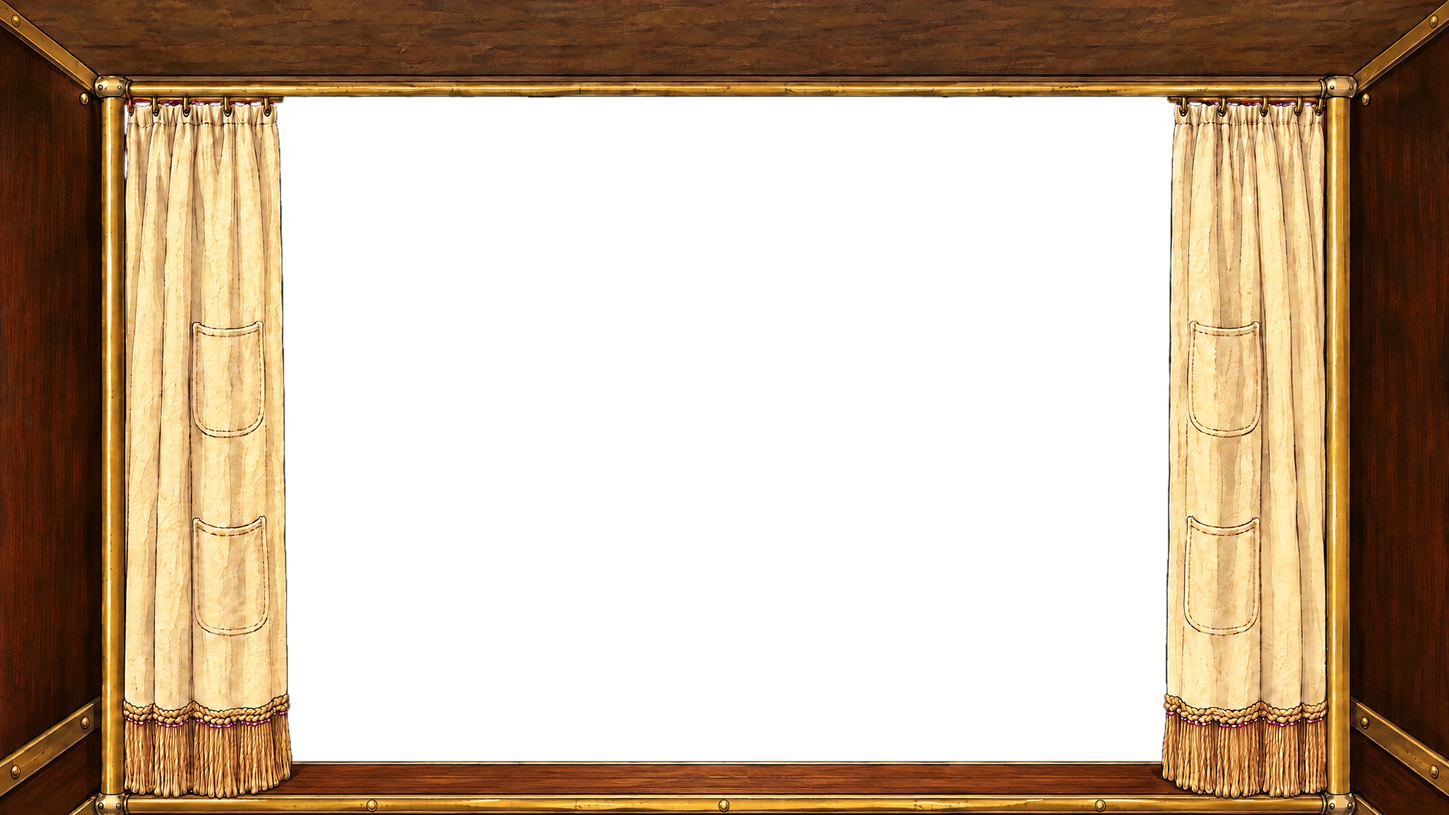
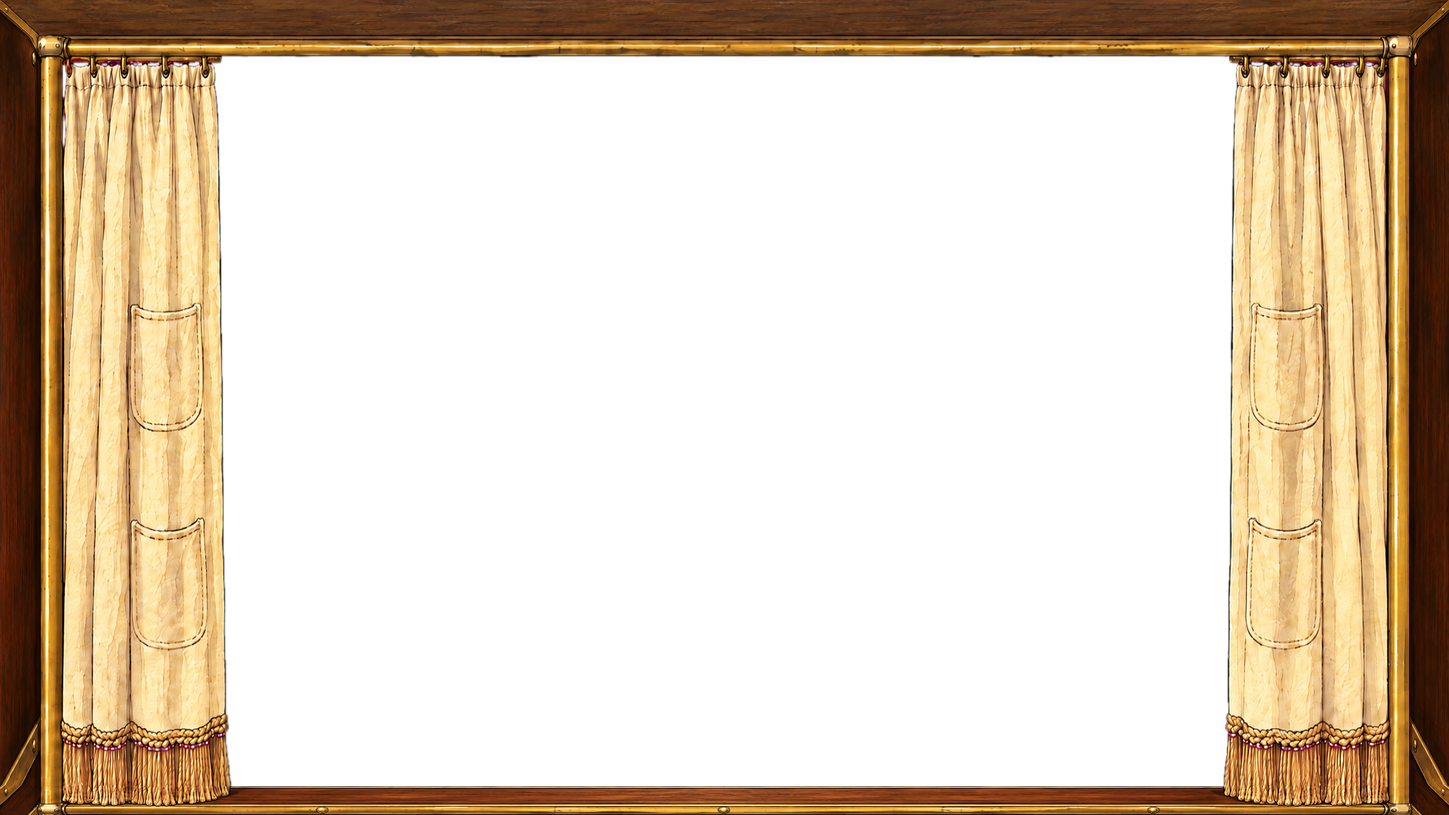
Пакет 6, ред. 9: рама тележки тоньше, кадры 7 и 13 с рукой изнутри, двери 316/318
Ответы автора 12.10.2026: рама тоньше (tools/assets/remap_frame.py, новый);
тёмная юбка — да; номера дверей 316/318; кадр в кабине светлый. Кадры
fr_a1_under_room и fr_a3_ride_under переделаны: рука изнутри тележки, рамка
тележки в самом кадре (в слотах SEQ.drive.1_under и SEQ.ride оверлея нет).
Спека §2.7, §4, README, статус, листы.

Claude-Session: https://claude.ai/code/session_01Dks16BWKXJ1H75RWreeaNq

diff --git a/tools/assets/remap_frame.py b/tools/assets/remap_frame.py
@@ -1,0 +1,52 @@
+#!/usr/bin/env python3
+"""Кусочно-линейно сжать или растянуть части кадра по горизонтали и вертикали — например, сделать
+тоньше раму тележки в оверлее юбки (решение автора 12.10.2026: «тоньше»), не перерисовывая его.
+
+  python tools/assets/remap_frame.py ВХОД.png ВЫХОД.png --x 0:0,135:60,377:302,1543:1618,1785:1860,1920:1920 \
+      [--y 0:0,95:45,991:1031,1080:1080]
+
+Опорные точки «откуда:куда» в пикселях кадра 1920×1080, по возрастанию; между ними — линейно.
+Части, у которых длина отрезка не меняется (стойки, полотнища), только сдвигаются. Альфа (если есть)
+переносится вместе с цветом. Выборка — билинейная.
+"""
+import argparse
+
+import numpy as np
+from PIL import Image
+
+
+def parse(spec, n):
+    if not spec:
+        return np.array([0, n]), np.array([0, n])
+    pts = [tuple(map(float, p.split(":"))) for p in spec.split(",")]
+    src, dst = np.array([p[0] for p in pts]), np.array([p[1] for p in pts])
+    return src, dst
+
+
+def main(argv=None):
+    ap = argparse.ArgumentParser()
+    ap.add_argument("src")
+    ap.add_argument("out")
+    ap.add_argument("--x", default="")
+    ap.add_argument("--y", default="")
+    a = ap.parse_args(argv)
+    im = Image.open(a.src)
+    mode = "RGBA" if "A" in im.getbands() else "RGB"
+    arr = np.asarray(im.convert(mode)).astype(float)
+    h, w = arr.shape[:2]
+    xs, xd = parse(a.x, w)
+    ys, yd = parse(a.y, h)
+    # обратное отображение: для каждого пикселя выхода — откуда брать
+    sx = np.interp(np.arange(w) + 0.5, xd, xs) - 0.5
+    sy = np.interp(np.arange(h) + 0.5, yd, ys) - 0.5
+    x0 = np.clip(np.floor(sx).astype(int), 0, w - 1); x1 = np.clip(x0 + 1, 0, w - 1); fx = np.clip(sx - x0, 0, 1)
+    y0 = np.clip(np.floor(sy).astype(int), 0, h - 1); y1 = np.clip(y0 + 1, 0, h - 1); fy = np.clip(sy - y0, 0, 1)
+    top = arr[y0][:, x0] * (1 - fx)[None, :, None] + arr[y0][:, x1] * fx[None, :, None]
+    bot = arr[y1][:, x0] * (1 - fx)[None, :, None] + arr[y1][:, x1] * fx[None, :, None]
+    out = top * (1 - fy)[:, None, None] + bot * fy[:, None, None]
+    Image.fromarray(np.clip(out + 0.5, 0, 255).astype("uint8"), mode).save(a.out)
+    print(f"{a.out}: x {a.x or '—'}; y {a.y or '—'}")
+
+
+if __name__ == "__main__":
+    main()

diff --git a/work/higgsfield/candidates/pack6_1012/README.md b/work/higgsfield/candidates/pack6_1012/README.md
@@ -6,7 +6,7 @@
 
 ## Решения автора 12.10.2026 (вторая половина дня)
 
-1. **Юбка — тележка изнутри, передняя шторка прямо перед глазами.** Замечания автора по очереди: «отодвигается вбок как шторка, а не поднимается вверх»; «с внешней стороны, разъезжается влево и вправо, как занавески перед окном»; «открытые шторы ПЕРЕД глазами, а не по бокам» (картинка `work/higgsfield/ref_author_curtains_1012.jpg`); «образец — только расположение штор, тележку оставить»; «опять шторы по бокам, а не впереди». Генератор по описанию упорно ставил шторы к краям кадра, и они читались как боковые стенки (ред. 3, 5) или терялась тележка (ред. 4). Ред. 6 сделана иначе: сначала я собрал точную схему (`work/higgsfield/layout/skirt_front_mock_1012.png`) — столешница и боковые шторы в перспективе, передние стойки, штанга, на ней в передней плоскости раздвинутые полотнища, — и генератор только перерисовал её начисто. Ред. 7 (замечание автора «по бокам должны быть голые стенки тележки»): боковые шторы ред. 6 заменены голыми стенками — тёмное дерево с латунной окантовкой; передняя шторка, столешница и стойки без изменений. Ред. 8 (замечание автора «тележка получилась как бы без пола»): добавлено днище — доски с латунной окантовкой внизу кадра (≈ 8 % высоты), дальний край — латунная перекладина между низами передних стоек. Ред. 1–7 сняты. Спека §2.7 поправлена.
+1. **Юбка — тележка изнутри, передняя шторка прямо перед глазами.** Замечания автора по очереди: «отодвигается вбок как шторка, а не поднимается вверх»; «с внешней стороны, разъезжается влево и вправо, как занавески перед окном»; «открытые шторы ПЕРЕД глазами, а не по бокам» (картинка `work/higgsfield/ref_author_curtains_1012.jpg`); «образец — только расположение штор, тележку оставить»; «опять шторы по бокам, а не впереди». Генератор по описанию упорно ставил шторы к краям кадра, и они читались как боковые стенки (ред. 3, 5) или терялась тележка (ред. 4). Ред. 6 сделана иначе: сначала я собрал точную схему (`work/higgsfield/layout/skirt_front_mock_1012.png`) — столешница и боковые шторы в перспективе, передние стойки, штанга, на ней в передней плоскости раздвинутые полотнища, — и генератор только перерисовал её начисто. Ред. 7 (замечание автора «по бокам должны быть голые стенки тележки»): боковые шторы ред. 6 заменены голыми стенками — тёмное дерево с латунной окантовкой; передняя шторка, столешница и стойки без изменений. Ред. 8 (замечание автора «тележка получилась как бы без пола»): добавлено днище — доски с латунной окантовкой внизу кадра (≈ 8 % высоты), дальний край — латунная перекладина между низами передних стоек. Ред. 9 — ответы автора: рама тоньше (`tools/assets/remap_frame.py`: боковые стенки 137→55 px, низ столешницы 106→50, днище 89→45; стойки и шторы только сдвинуты, у края теперь закрыто ≈ 15 % ширины, сверху ≈ 5 %, снизу ≈ 4 %). Ред. 1–8 сняты. Спека §2.7 поправлена.
 2. **Толпа полураздета на всех картинках, включая принятые.** «Смешнее, если люди по возможности раздеты; особенно смешно, если у некоторых мужчин полотенце по-женски завёрнуто на голове». Полотенца и халаты по объявлению банного дня изъяты, поэтому по ответу автора гости в своём: майки, подтяжки, семейные трусы, кальсоны, носки на подвязках, комбинации, ночнушки, бигуди, а мужчины наматывают на голову по-женски свою рубашку или кофту. Спека §1.4 поправлена.
 3. **Реплика `SEQ.peek.3`:** «Человек сорок. И все, как назло, не вполне голые» — слово автора; внесено в `texts/rewrite/ACT1_TEXTS_EDITS.md`, `ACT1_TEXTS_FINAL.md` пересобран, `check_texts.py` — без ошибок.
 
@@ -26,18 +26,18 @@
 | Файл | Кадр | Что | Проба |
 |---|---|---|---|
 | `fr_a1_voucher.png` | `OPEN.1_voucher` | сухие руки в рукавах тёмно-синего пиджака держат путёвку с гильоширной рамкой, строчки в размытие; позади номер 317, душевая с уточкой. Гэг: морская звезда вместо скрепки | 7c2820ff |
-| `fr_a1_corridor.png` | `SEQ.peek.1_corridor` | из двери номера: пустой коридор, ковровая дорожка, в конце латунные двери служебного лифта; мыльная рука на косяке. Гэги: ботинки с ракушкой, поднос с пустой подставкой для яйца | 325befca |
+| `fr_a1_corridor.png` | `SEQ.peek.1_corridor` | из двери номера: пустой коридор, ковровая дорожка, в конце латунные двери служебного лифта; мыльная рука на косяке. Гэги: ботинки с ракушкой, поднос с пустой подставкой для яйца (номера дверей переписаны на 316 и 318 — ответ автора) | 325befca |
 | `fr_a1_lift_panel.png` | `SEQ.peek.2_lift` | «5», «4», «3», «2», «Вестибюль»; на месте снятых кнопок — заглушки на винтах; мыльный палец у «Вестибюля». Гэг: морская звезда-наклейка | abbe3af7 |
 | `fr_a1_lobby_peek.png` | `SEQ.peek.3_lobby` | щель дверей лифта: у стойки полураздетая толпа (майки, подтяжки, трусы в полоску, носки на подвязках, комбинации, бигуди, у мужчин свитер тюрбаном; маска на лице, зубная щётка, пена для бритья), Изольда одета, смотрит мимо, прижимает папкой мокрый круг с лучами; «Банный день», сухой каскад | 4760d6bf; бейдж переписан |
 | `fr_a1_lobby_waiter.png` | `SEQ.peek.4_waiter` | тот же вид: официант с тележкой сквозь толпу, гости расступаются, не глядя; Изольда поднимает откидную секцию стойки, глаз не поднимает | 56d37be6 (от 4760d6bf); бейдж переписан |
 | `fr_a1_lift_close.png` | `SEQ.peek.5_back` | створки почти сошлись, в щели — полоска вестибюля и гость в майке со свитером на голове | 03cbccdf |
-| `fr_a1_under_room.png` | `SEQ.drive.1_under` | из-под юбки в номере: мыльная рука на нижнем латунном поручне, ковёр, закрытая дверь с листком. Гэги: носок и пуговица под кроватью | df050f8c |
+| `fr_a1_under_room.png` | `SEQ.drive.1_under` | рамка тележки уже в кадре (оверлея в слоте нет): мыльная рука изнутри тележки держит латунную кромку днища, впереди ковёр, кровать, закрытая дверь. Прежняя рука снаружи тележки — «нелепо» (автор) | основа 8d3feead (df050f8c без руки) + `ov_skirt` + рука 9b3c4d9d, вклеена `cutout.py` |
 | `fr_a1_under_liftdoors.png` | `SEQ.drive.2_lift` | из кабины: латунный порог, «мрамор», ноги в носках на подвязках, комбинации, тапки, босые ступни. Гэг: потерянный синий тапок | 771187f1 |
 | `fr_a1_under_lobby.png` | `SEQ.drive.3_lobby` | посреди вестибюля: ноги в пижамных шортах и носках на подвязках идут мимо, к тележке никто не повёрнут; вдали сухой каскад. Гэги: детская сандалия, волочится пояс | ae4c4205 (первая проба генератор не нарисовал — отказ по содержанию; формулировка смягчена) |
 | `fr_a1_under_service.png` | `END.act1`, `SEQ.shout.5` | за стойкой: полки с бланками, штемпелями, термосом; туфли Изольды в профиль (она одета), слева закрытая калитка, под ней — ноги толпы в носках на подвязках и тапках | 9e657d2f |
 | `fr_a2_under_exhibit.png` | `SEQ.exhibit.go` | у экспоната: витрина со счётчиком; у таблички — те же двое, что в Z05: она в комбинации и коричневых туфлях, он в трусах в полоску, носках на подвязках и тапках | f107a176 |
 | `fr_a3_lobby_hush.png` | `SEQ.report` | вестибюль затих: все ступни в профиль повёрнуты к громкоговорителю на колонне справа; брошенный тапок носком в другую сторону, опрокинутая чашка | 505a3247 |
-| `fr_a3_ride_under.png` | `SEQ.ride` | из-под юбки в кабине 1908 года: мыльная рука задёргивает латунную решётку, за прутьями горит лампа поста; крошки круассана | 42a6214f |
+| `fr_a3_ride_under.png` | `SEQ.ride` | рамка тележки уже в кадре: мыльная рука изнутри тележки тянется между передними шторами и задёргивает латунную решётку, за прутьями лампа поста; запасная `__alt2` — рука левее | основа 95867749 (42a6214f без руки) + `ov_skirt` + рука 3131ce04 (запас 56a1e186), вклеена `cutout.py` |
 | `fr_a3_dark.png` | `SEQ.descent` | почти черно (8 %): столешница, голые боковые стенки, стойки — силуэтами, передняя шторка задёрнута перед глазами, кармашки; под подолом полоска тёплого света; оверлея нет (§4.2) | a09a6f46 (с днищем), затемнён `grade_dark.py --k 0.45` |
 | `fr_epi_laundry.png` | `EPI.*` | прачечная, вода есть: барабаны крутятся, люк ближней машины открыт и парит, на машине сложены пиджак, рубашка, галстук | bdaff360 |
 | `fr_epi_minibar.png` | `EPI.0–2` | как Z02: на ручке новое меню (чистая карточка), кефир вместо комбучи. Гэг: моль на крышке кефира | c8bc17fb |
@@ -58,16 +58,16 @@
 
 Прежние версии после «да» уходят в `work/orig_gfx/` (`…__одетые_до_12.10`).
 
-## Вопросы автору
+## Ответы автора 12.10.2026
 
-1. **Юбка на тёмных кадрах.** Светлая шторка на тёмном кадре прибытия выбивается. Предлагаю второй файл `ov_skirt_dark.png` (на листе юбки) для `SEQ.descent` … `SEQ.wait` Акта IV; другой путь — затемнять юбку в движке.
-2. **Номера и кнопки.** На дверях коридора номера 306/307 (у героя 317), этажи лифта «5…2, Вестибюль» придуманы — сделано по решению 08.10 «текст рисует генератор» (спека §4.1 ещё просит чистые таблички). Если надо — впишу 316/318.
-3. **Кадр в кабине `fr_a3_ride_under`** (ещё наверху) оставлен светлым.
-5. **Нижний поручень в кадре номера.** На `fr_a1_under_room` мыльная рука держит нижний латунный поручень, а теперь, с днищем и передней шторкой, поручень оказался снаружи, за шторкой. Если важно — перерисую кадр: поручень у самого низа, на днище тележки, рука на нём.
-4. **Шторка закрывает край кадра** (с ред. 6 — до 19 % у каждого края). Новая шторка по бокам шире прежней «бахромы» (10 % ширины) и прячет то, что художник поставил у самого края: у экспоната (`fr_a2_under_exhibit`, Z05 со `ov_skirt_open`) видны ноги гостьи, а её спутник почти скрыт; в затихшем вестибюле громкоговоритель — у самой штанги. Если важно, перерисую эти кадры с людьми ближе к середине.
+1. Рама тележки — **тоньше** (сделано, ред. 9).
+2. Тёмная юбка `ov_skirt_dark.png` для кадров до появления Кухтулху — **да** (`SEQ.descent` … `SEQ.wait` Акта IV; в спеку после «да» по пакету).
+3. Номера дверей коридора — **316 и 318** (сделано).
+4. Кадр в кабине — **светлый** (как есть).
+5. Кадры 7 и 13 «выглядят нелепо» — переделаны: рука изнутри тележки, рамка в самом кадре.
 
-Попутно (не арт): `OPEN.1_voucher` — портрет в тексте с пеной, а по спеке §4.2 без пены (путёвку он держит до душа).
+Попутно (не арт, ждёт решения): `OPEN.1_voucher` — портрет в тексте с пеной, а по спеке без пены (путёвку он держит до душа).
 
 ## После «да»
 
-17 кадров → `assets/gfx/frames/`; `ov_skirt`, `ov_skirt_open` → `assets/gfx/cutouts/` (кадр целиком, без записи в `cutouts.json`); замены принятых: `room_w2`, `zoom_z05`, `fr_a4_cascade_duck` и слои из `cutouts.json` этой папки. Будет готово **221 из 263** рисунков (84 %). Дальше: 31 носитель документов (в т. ч. `photo_family`), 9 иконок, титул.
+17 кадров → `assets/gfx/frames/`; `ov_skirt`, `ov_skirt_open`, `ov_skirt__dark` (как `ov_skirt_dark.png`) → `assets/gfx/cutouts/` (кадр целиком, без записи в `cutouts.json`); замены принятых: `room_w2`, `zoom_z05`, `fr_a4_cascade_duck` и слои из `cutouts.json` этой папки. Будет готово **221 из 263** рисунков (84 %). Дальше: 31 носитель документов (в т. ч. `photo_family`), 9 иконок, титул.

diff --git a/docs/BJ3_ASSET_SPEC.md b/docs/BJ3_ASSET_SPEC.md
@@ -259,7 +259,7 @@
 
 | Файл | Размер | Что |
 |---|---|---|
-| `ov_skirt.png` | 1920×1080 RGBA | вид изнутри тележки (решения автора 12.10.2026; раскладка — `work/higgsfield/layout/skirt_front_mock_1012.png`): сверху низ столешницы в перспективе (≈ 12 % высоты), у левого и правого края **голые боковые стенки тележки** уходят в глубину — тёмное дерево с латунной окантовкой, без ткани (≈ 8 % ширины; решение автора 12.10.2026: «по бокам должны быть голые стенки тележки»), за ними передние латунные стойки и прямая штанга между ними; на штанге **в передней плоскости, прямо перед глазами**, раздвинутая влево и вправо передняя шторка — два плоских полотнища сразу внутри стоек (≈ 11 % ширины каждое), изнанка ткани со швами кармашков, бахрома внизу; внизу — днище тележки (доски с латунной окантовкой, ≈ 8 % высоты; замечание автора 12.10.2026: «тележка как бы без пола»), его дальний край — латунная перекладина между низами стоек; середина открыта. Расположение передних штор — как на картинке автора `work/higgsfield/ref_author_curtains_1012.jpg` (только расположение, не стиль). Не поднимать ткань вверх; передние шторы не рисовать вдоль боковых стенок. Накладывается на все виды «из-под юбки» |
+| `ov_skirt.png` | 1920×1080 RGBA | вид изнутри тележки (решения автора 12.10.2026; раскладка — `work/higgsfield/layout/skirt_front_mock_1012.png`): сверху низ столешницы в перспективе (≈ 5 % высоты), у левого и правого края **голые боковые стенки тележки** уходят в глубину — тёмное дерево с латунной окантовкой, без ткани (≈ 3 % ширины; рама сделана тоньше по ответу автора 12.10.2026; решение автора 12.10.2026: «по бокам должны быть голые стенки тележки»), за ними передние латунные стойки и прямая штанга между ними; на штанге **в передней плоскости, прямо перед глазами**, раздвинутая влево и вправо передняя шторка — два плоских полотнища сразу внутри стоек (≈ 11 % ширины каждое), изнанка ткани со швами кармашков, бахрома внизу; внизу — днище тележки (доски с латунной окантовкой, ≈ 4 % высоты; замечание автора 12.10.2026: «тележка как бы без пола»), его дальний край — латунная перекладина между низами стоек; середина открыта. Расположение передних штор — как на картинке автора `work/higgsfield/ref_author_curtains_1012.jpg` (только расположение, не стиль). Не поднимать ткань вверх; передние шторы не рисовать вдоль боковых стенок. Накладывается на все виды «из-под юбки» |
 | `ov_skirt_open.png` | 1920×1080 RGBA | то же, передние полотнища раздвинуты до упора и туго собраны у стоек. Для `zoom_z05.png` |
 
 ### 2.8. W6 — контора старшего по воде · `room_w6.png`
@@ -388,13 +388,13 @@
 | `fr_a1_lobby_peek.png` | 1920×1080 RGB | из открывающихся дверей служебного лифта, стоя, в щель: людный вестибюль, толпа у стойки, Изольда за стойкой смотрит мимо, её рука с папкой над мокрым кругом на столешнице, огромный чистый плакат над толпой, сухой каскад |
 | `fr_a1_lobby_waiter.png` | 1920×1080 RGB | тот же ракурс: официант катит тележку с завтраком сквозь толпу, гости расступаются, не глядя на него; Изольда поднимает откидную доску, не поднимая глаз |
 | `fr_a1_lift_close.png` | 1920×1080 RGB | двери служебного лифта сходятся, в узкой щели — вестибюль |
-| `fr_a1_under_room.png` | 1920×1080 RGB | из-под юбки в номере (оверлей юбки): мыльная рука держит нижний латунный поручень, впереди ковёр и закрытая дверь номера |
+| `fr_a1_under_room.png` | 1920×1080 RGB | из-под юбки в номере, рамка тележки уже в кадре (как `ov_skirt`): мыльная рука изнутри тележки держит латунную кромку днища, впереди ковёр и закрытая дверь номера (замечание автора 12.10.2026: рука снаружи тележки «выглядит нелепо») |
 | `fr_a1_under_liftdoors.png` | 1920×1080 RGB | из-под юбки: двери служебного лифта открыты в вестибюль, плитка «под мрамор», вдали ботинки, тапочки, туфли |
 | `fr_a1_under_lobby.png` | 1920×1080 RGB | из-под юбки посреди вестибюля: ноги гостей идут мимо, носками не к тележке |
 | `fr_a1_under_service.png` | 1920×1080 RGB | из-под юбки за стойкой: внутренние полки стойки, туфли Изольды в профиль к тележке, калитка позади закрыта |
 | `fr_a2_under_exhibit.png` | 1920×1080 RGB | из-под юбки у экспоната: низкая витрина справа, у таблички туфли гостьи и тапочки её спутника, вестибюль дальше |
 | `fr_a3_lobby_hush.png` | 1920×1080 RGB | из-под юбки: затихший вестибюль — все ботинки, туфли и тапочки повёрнуты носками в одну сторону, к динамику на колонне |
-| `fr_a3_ride_under.png` | 1920×1080 RGB | из-под юбки в кабине: пол кабины, край юбки; мыльная рука задёргивает решётку изнутри, за прутьями мигает лампа поста (решение автора 08.10.2026: «Вниз» нажат снаружи, лифт ждёт закрытой решётки) |
+| `fr_a3_ride_under.png` | 1920×1080 RGB | из-под юбки в кабине, рамка тележки уже в кадре (как `ov_skirt`): мыльная рука изнутри тележки тянется между передними шторами и задёргивает латунную решётку, за прутьями мигает лампа поста (решение автора 08.10.2026: «Вниз» нажат снаружи, лифт ждёт закрытой решётки; 12.10.2026: рука — изнутри тележки) |
 | `fr_a3_dark.png` | 1920×1080 RGB | темнота под юбкой при спуске: то же устройство, передняя шторка задёрнута перед глазами — два полотнища сошлись посередине; по нижнему краю, под подолом с бахромой, — тонкая полоска света (по сдаче Акта III; исключение из нормы яркости — решение автора 06.10.2026) |
 | `fr_a3_under_arrive.png` | 1920×1080 RGB | из-под юбки из кабины: решётка открыта, мокрый кафель приёмного пункта, ножка стола приёма, капли |
 | `fr_epi_laundry.png` | 1920×1080 RGB | прачечная: люк барабана открыт, на крышке барабана сложена влажная одежда Лапидуса (пиджак, рубашка, галстук), пар |
@@ -420,7 +420,7 @@
 | `SEQ.peek.3_lobby` | I | `fr_a1_lobby_peek.png` |
 | `SEQ.peek.4_waiter` | I | `fr_a1_lobby_waiter.png` |
 | `SEQ.peek.5_back` | I | `fr_a1_lift_close.png` |
-| `SEQ.drive.1_under` | I | `fr_a1_under_room.png` + `ov_skirt.png` |
+| `SEQ.drive.1_under` | I | `fr_a1_under_room.png` (рамка тележки в кадре, оверлея нет) |
 | `SEQ.drive.2_lift` | I | `fr_a1_under_liftdoors.png` + `ov_skirt.png` |
 | `SEQ.drive.3_lobby` | I | `fr_a1_under_lobby.png` + `ov_skirt.png` |
 | `SEQ.drive.4_crowd` | I | `room_w2_under.png` + `st_w2u_crowd.png` + `ov_skirt.png` |
@@ -456,7 +456,7 @@
 | `SEQ.iz.payment` | III | `zoom_z04.png` + `st_z04_complaints.png` + `st_z04_bill_stamped.png` + `st_z04_drawer_kefir.png`, затем `zoom_z04.png` + `st_z04_complaints.png` + `st_z04_bill_stamped.png` + `st_z04_kefir.png`; портрет `iz_looks` |
 | `SEQ.load` | III | `cu_z04_kefir_hands.png` |
 | `SEQ.report` | III | `room_w2.png` + `st_w2_iz_mic.png` + `st_w2_trolley.png` + `st_w2_tt_payment.png`, затем `fr_a3_lobby_hush.png` + `ov_skirt.png` |
-| `SEQ.ride` | III | `fr_a3_ride_under.png` + `ov_skirt.png` |
+| `SEQ.ride` | III | `fr_a3_ride_under.png` (рамка тележки в кадре, оверлея нет) |
 | `SEQ.descent` | III | `fr_a3_dark.png`, затем `fr_a3_under_arrive.png` + `ov_skirt.png` |
 | `END.act3` | III | `fr_a3_under_arrive.png` + `ov_skirt.png` |
 | `SEQ.counter.again` | III | экран назначения с текущими состояниями |
@@ -918,7 +918,7 @@
 
 **Решения автора 12.10.2026 — пакет 5:** лучистый оттиск `stamp_kuh` — красный, как на принятых картинках; в кадре `OPEN.steps` кончики щупалец Кухтулху в нарукавниках (как в тексте; принятые `st_w5_kuh`, `st_w5u_tentacles` не меняются); щупальца не должны расти «из ниоткуда» и не должны выглядеть обрубленными: каждое — целое, сужается к тонкому закрученному кончику, нарукавник сидит посередине видимой длины, как на предплечье.
 
-**Решения автора 12.10.2026 — пакет 6:** (1) юбка тележки на всех видах «из-под юбки» — вид изнутри тележки: столешница сверху и голые боковые стенки (дерево, латунь, без штор) в перспективе, передняя шторка висит в передней плоскости прямо перед глазами и раздвинута влево и вправо, как занавески перед окном; не поднимается вверх (§2.7, ред. 8 — с днищем; раскладка `work/higgsfield/layout/skirt_front_mock_1012.png`; `fr_a3_dark` — передняя шторка задёрнута); (2) толпа на всех картинках, включая принятые (`room_w2`, `st_w2_cascade_on`, `st_w2_iz_mic`, `st_w2u_crowd`, `st_w2u_parted`, `zoom_z05`, `fr_a4_cascade_duck`), полураздета своими вещами (§1.4); реплика `SEQ.peek.3`: «Человек сорок. И все, как назло, не вполне голые» (`texts/rewrite/ACT1_TEXTS_EDITS.md`).
+**Решения автора 12.10.2026 — пакет 6:** (1) юбка тележки на всех видах «из-под юбки» — вид изнутри тележки: столешница сверху и голые боковые стенки (дерево, латунь, без штор) в перспективе, передняя шторка висит в передней плоскости прямо перед глазами и раздвинута влево и вправо, как занавески перед окном; не поднимается вверх (§2.7, ред. 9 — с днищем, рама тоньше (ответ автора «тоньше»); кадры `fr_a1_under_room`, `fr_a3_ride_under` — рамка в кадре, рука изнутри тележки; раскладка `work/higgsfield/layout/skirt_front_mock_1012.png`; `fr_a3_dark` — передняя шторка задёрнута); (2) толпа на всех картинках, включая принятые (`room_w2`, `st_w2_cascade_on`, `st_w2_iz_mic`, `st_w2u_crowd`, `st_w2u_parted`, `zoom_z05`, `fr_a4_cascade_duck`), полураздета своими вещами (§1.4); реплика `SEQ.peek.3`: «Человек сорок. И все, как назло, не вполне голые» (`texts/rewrite/ACT1_TEXTS_EDITS.md`).
 
 **Решение автора 12.10.2026 — «сначала чудовище, потом бухгалтерша»:** до полного появления Кухтулху (`SEQ.come_out`) игрок должен думать, что увидит чудовище; лица не видно. Все кадры до этого момента — тёмные: `fr_a3_under_arrive` (и в `SEQ.descent`, `END.act3`, `OPEN.arrive`), его слой со щупальцами, `room_w5_under` со слоями `st_w5u_reach`, `st_w5u_tentacles`. Затемнение одинаковое для основ и слоёв — `tools/assets/grade_dark.py` (средняя яркость около 18–19 %; исключение из нормы DESIGN_BIBLE §9 «≥ 30 %», как `fr_a3_dark`). Светлее — с `SEQ.come_out`. Музыка тоже разная: до полного появления — тревожная тема «чудовище из глубины», после — принятая `bgm_below` (хабанера); новая тема — в звуковом пакете.
 

diff --git a/PROJECT_STATUS_HYDROUDAR.md b/PROJECT_STATUS_HYDROUDAR.md
@@ -5,10 +5,10 @@
 ## Точка входа для новой сессии
 
 - ★★★★★★★ **12.10.2026, позже — ПАКЕТ 6 НА ПРИЁМКЕ (ред. 2): юбка-шторка, 17 кадров немых сцен, полураздетая толпа во всей графике. ДАЛЬШЕ — с этого пункта.** Ветка `claude/fervent-cerf-gqukn3`, черновой PR #19. Сессия стартовала с ветки, совпадающей с `origin/main` (f60c987, слияние PR #18); открытых PR не было; впереди `main` только старые хвосты (`art-archive`, `gifted-faraday`, `intelligent-hypatia`).
-  - **Решения автора 12.10.2026 (действуют дальше):** (1) юбка тележки — вид изнутри тележки: столешница сверху и голые боковые стенки (дерево, латунь, без штор) в перспективе, передняя шторка висит в передней плоскости прямо перед глазами и раздвинута влево и вправо, как занавески перед окном; не поднимается вверх (спека §2.7, ред. 8 — с днищем тележки; по точной схеме `work/higgsfield/layout/skirt_front_mock_1012.png`, генератор по одному описанию ставил шторы к краям); (2) толпа на всех картинках, включая принятые, по возможности раздета — своими вещами, потому что полотенца и халаты изъяты банным днём (ответ автора): майки, подтяжки, семейные трусы, кальсоны, носки на подвязках, комбинации, ночнушки, бигуди, у мужчин на голове по-женски намотана своя рубашка или кофта (спека §1.4); (3) реплика `SEQ.peek.3` — «Человек сорок. И все, как назло, не вполне голые» (`texts/rewrite/ACT1_TEXTS_EDITS.md`, Акт I пересобран, `check_texts.py` — без ошибок).
+  - **Решения автора 12.10.2026 (действуют дальше):** (1) юбка тележки — вид изнутри тележки: столешница сверху и голые боковые стенки (дерево, латунь, без штор) в перспективе, передняя шторка висит в передней плоскости прямо перед глазами и раздвинута влево и вправо, как занавески перед окном; не поднимается вверх (спека §2.7, ред. 9 — с днищем, рама тоньше; кадры 7 и 13 с рукой изнутри тележки и рамкой в кадре; по точной схеме `work/higgsfield/layout/skirt_front_mock_1012.png`, генератор по одному описанию ставил шторы к краям); (2) толпа на всех картинках, включая принятые, по возможности раздета — своими вещами, потому что полотенца и халаты изъяты банным днём (ответ автора): майки, подтяжки, семейные трусы, кальсоны, носки на подвязках, комбинации, ночнушки, бигуди, у мужчин на голове по-женски намотана своя рубашка или кофта (спека §1.4); (3) реплика `SEQ.peek.3` — «Человек сорок. И все, как назло, не вполне голые» (`texts/rewrite/ACT1_TEXTS_EDITS.md`, Акт I пересобран, `check_texts.py` — без ошибок).
   - **Что в пакете:** оверлеи `ov_skirt`, `ov_skirt_open` (и тёмный `ov_skirt__dark` на вопрос); 17 кадров `fr_*`; замены принятых: `room_w2` (толпа), слои `st_w2_cascade_on`, `st_w2_iz_mic` (и бейдж), `st_w2u_crowd`, `st_w2u_parted`, `st_w2_forms1/forms3/kefir/vitrine_open` (очищены от кусков старой одежды), `zoom_z05` (ноги у витрины), `frames/fr_a4_cascade_duck`. Кандидаты и README — `work/higgsfield/candidates/pack6_1012/`; листы — `work/higgsfield/sheet_1012_pack6_frames.png`, `sheet_1012_pack6_skirt.png`, `sheet_1012_pack6_crowd.png` (было / стало).
   - **Новые инструменты:** `tools/assets/skirt_overlay.py` (юбка с мадженты), `tools/assets/badge_text.py` (генератор каждый раз пишет на бейдже Изольды чужую фамилию), `tools/assets/refresh_layers.py` (чистка слоёв после правки основы), `grade_dark.py --no-protect`.
-  - **Вопросы автору (README пакета):** (1) тёмная юбка `ov_skirt_dark.png` для кадров до появления Кухтулху; (2) номера дверей коридора 306/307 и придуманные этажи лифта; (3) кадр в кабине оставлен светлым; (4) новая шторка у краёв прячет спутника гостьи у экспоната и почти касается громкоговорителя. Попутно: `OPEN.1_voucher` — портрет в тексте с пеной, а по спеке без пены.
+  - **Ответы автора 12.10.2026:** рама тоньше; тёмная юбка `ov_skirt_dark` — да; номера дверей 316/318; кадр в кабине светлый; кадры 7 и 13 переделаны (рука изнутри тележки). Ждёт общего «да». Попутно: `OPEN.1_voucher` — портрет в тексте с пеной, а по спеке без пены.
   - **После «да»:** кадры → `assets/gfx/frames/`, оверлеи → `assets/gfx/cutouts/`, замены принятых — на место (прежние → `work/orig_gfx/`, `…__одетые_до_12.10`), `cutouts.json` слить; будет готово **221 из 263** рисунков (84 %). Дальше: 31 носитель документов (в т. ч. `photo_family`), 9 иконок, титул.
 - ★★★★★★ **12.10.2026 — ПАКЕТ 5 ПРИНЯТ АВТОРОМ («да») И ПЕРЕНЕСЁН В `assets/`.** (прежняя точка входа) Ветка `claude/epic-carson-43ivoi`, PR #18.
   - **В `assets/`:** слои `st_w1_plunger`, `st_w1_cistern_open`, `st_w1_menu`, `st_w4_trolley_stairs`, `st_fr_a3_under_arrive_tentacles` (вариант 2б, затемнён); кадр `frames/fr_a3_under_arrive` (тёмный); новая папка `docs/` — `stamp_kuh` (красный), `stamp_hotel`, `mark_plunger`, `mark_thumb`, `mark_soap`; затемнены принятые `room_w5_under`, `st_w5u_reach`, `st_w5u_tentacles` (светлые — `work/orig_gfx/`, `…__светлый_до_12.10`). Готово **202 из 263** рисунков (77 %); звук — 6 из 59.
